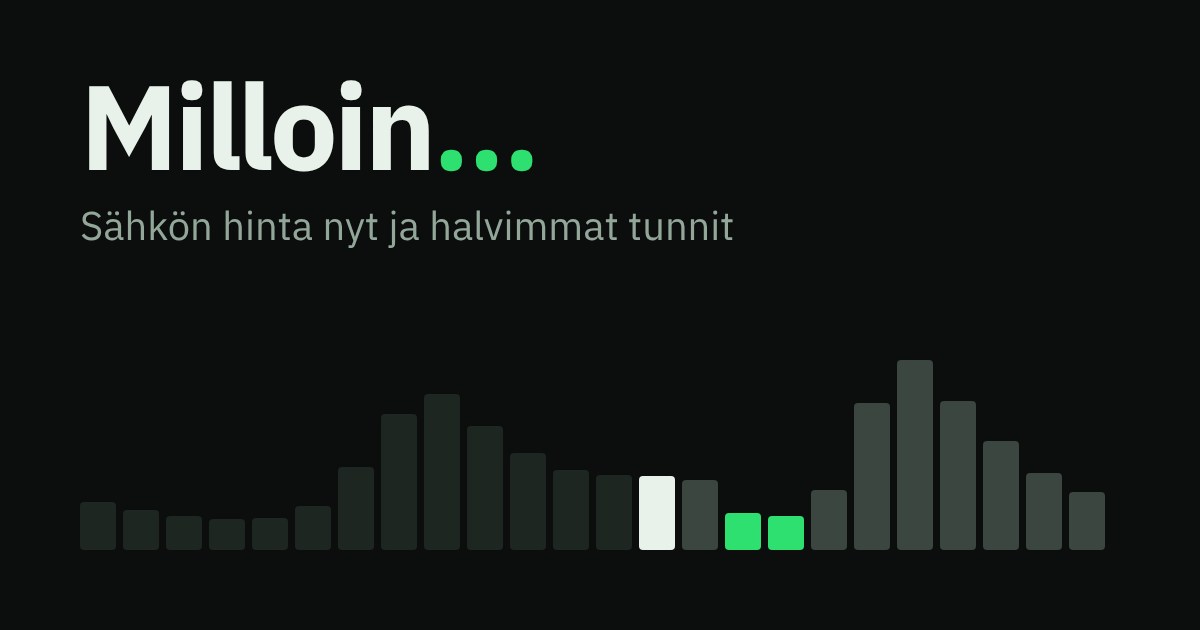
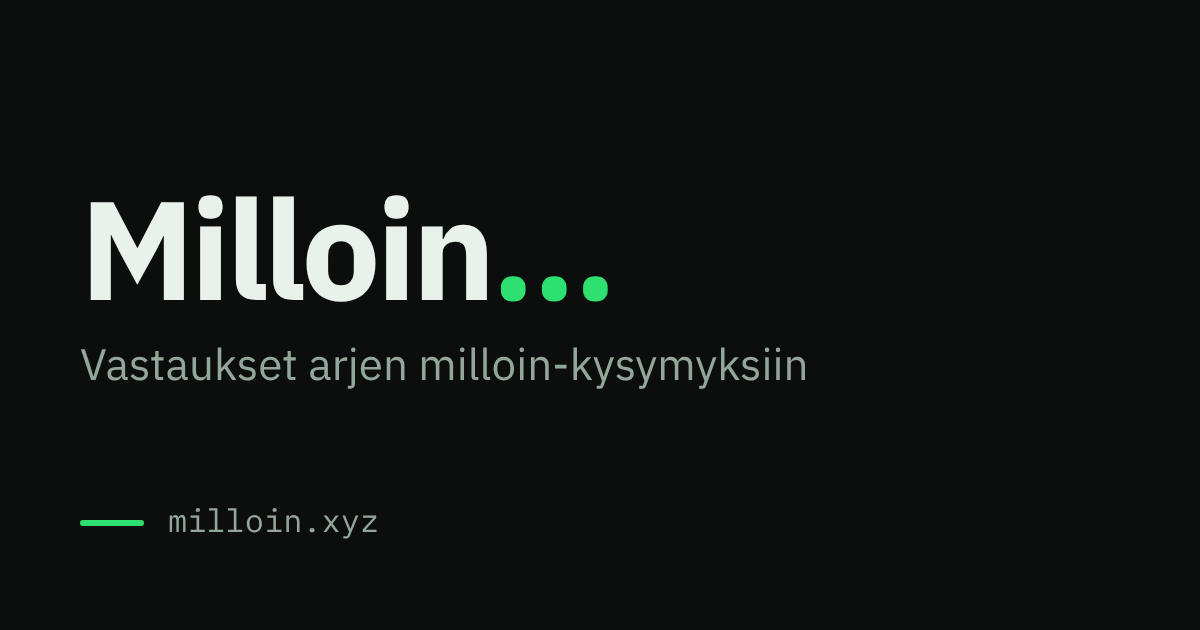
Make the link preview image general instead of electricity-only
The og:image subtitle said "Sähkön hinta nyt ja halvimmat tunnit" and showed
price bars, also on Raha pages. It now says "Vastaukset arjen
milloin-kysymyksiin" like the home title. The image URL carries ?v=2 so
WhatsApp and others fetch the new image instead of their cached preview.

Claude-Session: https://claude.ai/code/session_011x16bapXvUjGMfwv3Andh8

diff --git a/src/index.html b/src/index.html
@@ -28,17 +28,17 @@
   <meta property="og:url" content="https://milloin.xyz/">
   <meta property="og:site_name" content="Milloin">
   <meta property="og:locale" content="fi_FI">
-  <meta property="og:image" content="https://milloin.xyz/og-image.png">
+  <meta property="og:image" content="https://milloin.xyz/og-image.png?v=2">
   <meta property="og:image:type" content="image/png">
   <meta property="og:image:width" content="1200">
   <meta property="og:image:height" content="630">
-  <meta property="og:image:alt" content="Milloin… Sähkön hinta nyt ja halvimmat tunnit">
+  <meta property="og:image:alt" content="Milloin… Vastaukset arjen milloin-kysymyksiin">
 
   <!-- Twitter Card Meta Tags -->
   <meta name="twitter:card" content="summary_large_image">
   <meta name="twitter:title" content="Milloin… – Vastaukset arjen milloin-kysymyksiin">
   <meta name="twitter:description" content="Milloin saunotaan, pestään pyykit tai ladataan auto, ja milloin Kelan tuet, veronpalautukset ja eläke tulevat tilille? Vastaukset arjen milloin-kysymyksiin ja sähkön hinta nyt.">
-  <meta name="twitter:image" content="https://milloin.xyz/og-image.png">
+  <meta name="twitter:image" content="https://milloin.xyz/og-image.png?v=2">
 
   <!-- Structured Data (JSON-LD) -->
   <script type="application/ld+json">
@@ -71,7 +71,7 @@
       "Veronpalautusten maksupäivät",
       "Eläkkeiden maksupäivät"
     ],
-    "screenshot": "https://milloin.xyz/og-image.png",
+    "screenshot": "https://milloin.xyz/og-image.png?v=2",
     "softwareVersion": "2.0",
     "datePublished": "2025-01-01",
     "dateModified": "2026-10-09",

diff --git a/CLAUDE.md b/CLAUDE.md
@@ -177,10 +177,10 @@ src/
 
 ### SEO Meta Tags
 Each route in `app.routes.ts` has its own `title` and `data.description`; `SeoTitleStrategy` (`shared/seo`) sets the title, description, canonical URL and `og:`/`twitter:` title, description and URL on every navigation. The tags in `src/index.html` are the home page's and the defaults:
-- **Title**: "Milloin… – Pörssisähkön hinta nyt ja halvimmat tunnit"
+- **Title**: "Milloin… – Vastaukset arjen milloin-kysymyksiin"
 - **Description**: Optimized for search engines with relevant keywords
 - **Keywords**: electricity price, spot price, cheapest hour, EV charging, laundry, energy savings (in Finnish)
-- **Open Graph Tags**: For social media sharing (Facebook, LinkedIn); image `public/og-image.png` (1200x630, rendered from `src/og-image.svg`)
+- **Open Graph Tags**: For social media sharing (Facebook, LinkedIn); image `public/og-image.png` (1200x630, rendered from `src/og-image.svg`; when the image changes, bump the `?v=` in its `og:image`, `twitter:image` and JSON-LD URLs in `src/index.html`, because WhatsApp and others cache previews by URL)
 - **Twitter Card Tags**: For Twitter/X sharing
 
 **Important**: When adding new features or pages:
